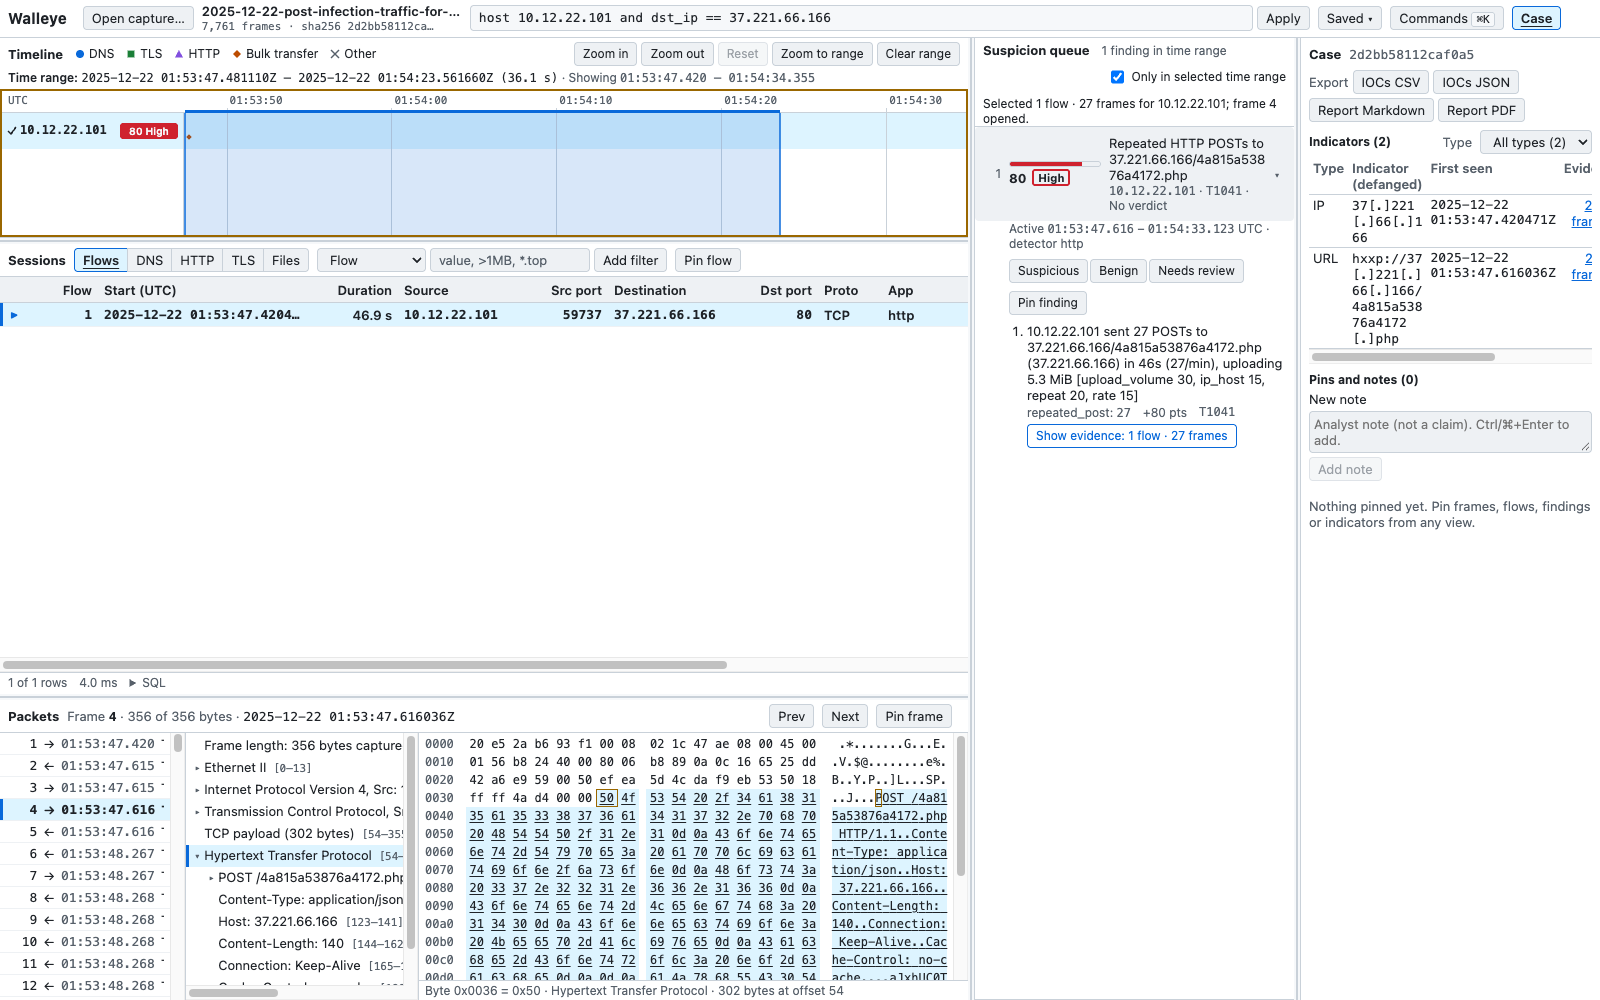
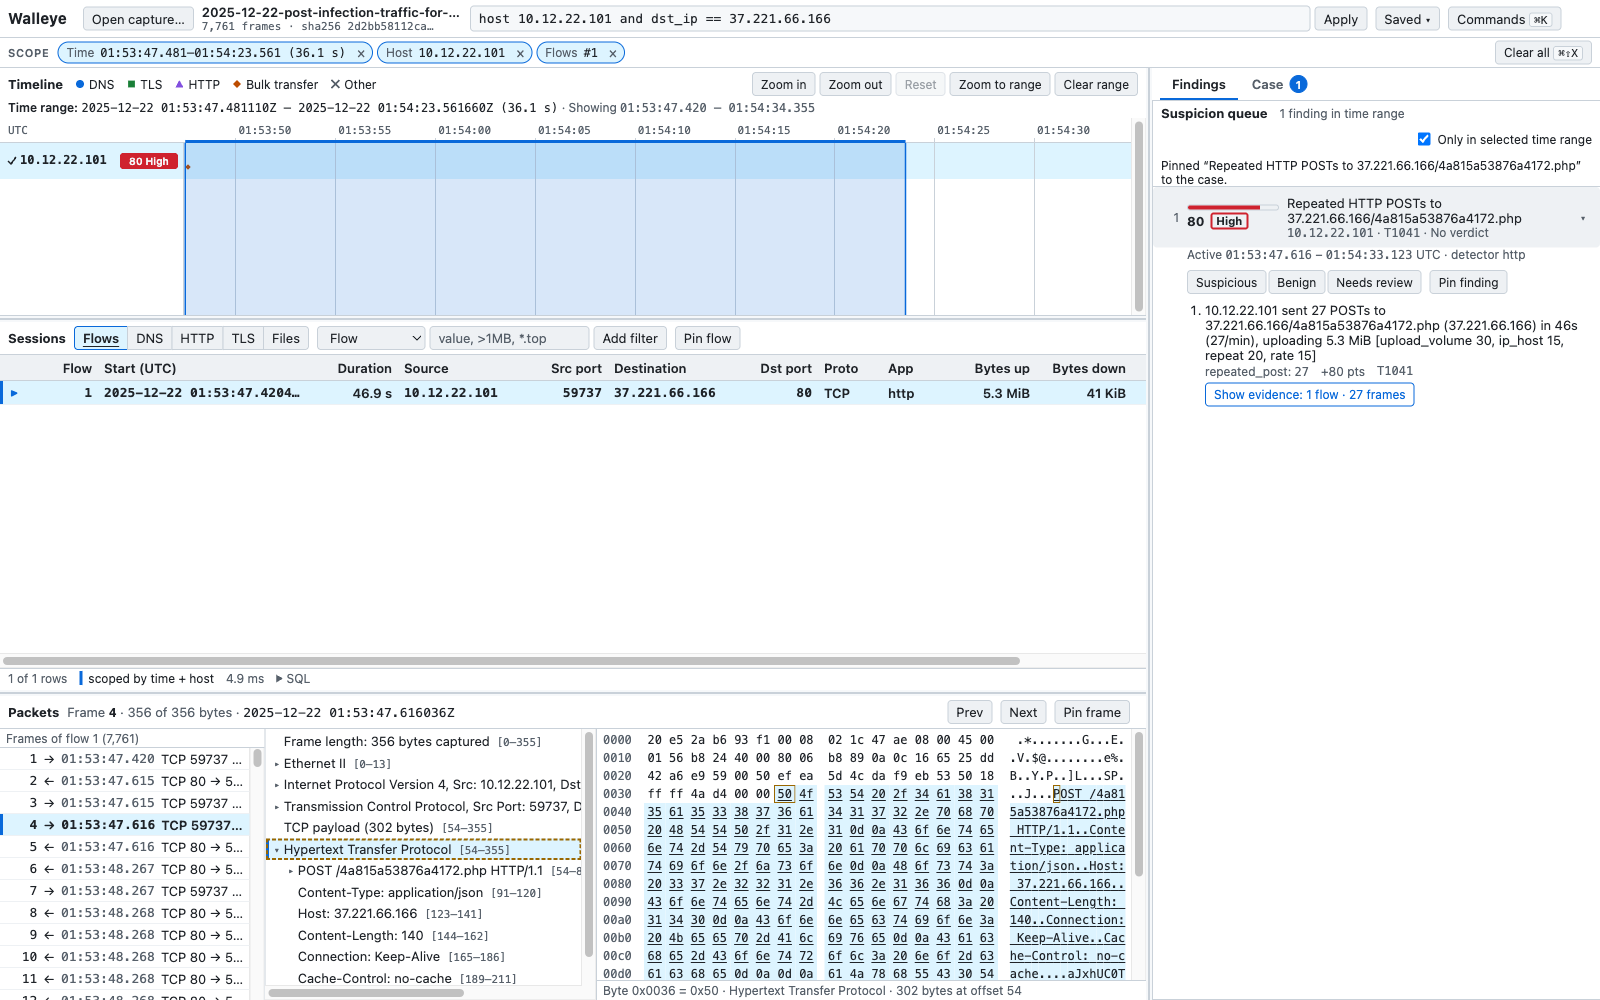
README: describe the scope bar, Findings/Case tabs and pane sizing; new screenshot
Folds the paragraphs added by #5 and #6 into one short layout list, adds
the command palette and g 0, notes the usability round in Status, and
retakes docs/images/triage.png with the new layout on the real StealC
capture (same scene as before).

Changed region(s): [[0.0, 0.0, 1.0, 0.527], [0.0, 0.651, 0.7188, 1.0], [0.8125, 0.992, 1.0, 1.0]]

diff --git a/README.md b/README.md
@@ -8,19 +8,22 @@ Walleye is a desktop app for security analysts that analyzes packet captures (PC
 - **Suspicion queue:** hosts ranked by score. Each entry lists its reasons, their weights and the frames behind them.
 - **Case panel:** verdicts, pins and notes. Exports indicators (CSV/JSON) and a report (Markdown/PDF).
 
-The suspicion queue and the case panel share the right-hand column as two tabs, **Findings** and **Case** (switch with ⌘\ / Ctrl+\, or `g q` / `g c`). The Case tab shows the pin count and highlights it when something is pinned from another tab. On smaller windows the timeline and packet pane give up height first, so the session table always keeps room for several rows.
+How the screen is laid out:
 
-A scope bar under the header shows, as removable chips, everything that is narrowing the views: the time range, selected hosts and flows, and the focused Wi-Fi device. **Clear all** (⌘⇧X / Ctrl+Shift+X) resets them and keeps the filter.
+- **Scope bar:** a row under the header shows everything narrowing the views as chips you can remove: the time range, selected hosts and flows, and the focused Wi-Fi device. **Clear all** (⌘⇧X / Ctrl+Shift+X) removes them all and keeps the filter.
+- **Findings and Case tabs:** the suspicion queue and the case panel share the right-hand column. Switch with ⌘\ / Ctrl+\, or `g q` and `g c`. The Case tab shows how many items are pinned, and the count lights up when you pin something from Findings.
+- **Pane sizes:** panes scale with the window until you drag a divider. The session table always keeps room for several rows. `g 0` resets the sizes.
+- **Keyboard:** ⌘K / Ctrl+K opens the command palette, which lists every action and its shortcut.
 
 Every finding, indicator and report line cites frame numbers and the capture's SHA-256, so any claim can be checked against the raw packets.
 
 **Wi-Fi (802.11) captures** from monitor-mode tools such as the WiFi Coconut, airodump-ng or Kismet (link types 105 and 127) open too. Walleye adds Access points, Clients and Wi-Fi frames tabs, a timeline with one lane per transmitting device, and detections for deauthentication floods, evil twins and karma access points. A deauth flood is judged partly by signal strength: frames that arrive at the same strength as the access point's own beacons most likely came from the real access point. Filter with `wifi.*`, `ap.*` and `client.*` fields or `mac aa:bb:cc:dd:ee:ff`. Unencrypted Wi-Fi traffic (open networks, Apple AWDL) also feeds the normal connection views.
 
-![Walleye triaging a StealC infection: a timeline selection narrows the queue to the C2 finding, and its first check-in is decoded in the packet pane](docs/images/triage.png)
+![Walleye triaging a StealC infection: the scope bar shows a time range, host and flow; the Findings tab holds the C2 finding, already pinned to the case; its first check-in is decoded in the packet pane](docs/images/triage.png)
 
 ## Status
 
-The MVP and Wi-Fi support are both on `main`, and every gate below passes.
+The MVP and Wi-Fi support are both on `main`, and every gate below passes. A round of usability work on the interface is under way: the scope bar ([#5](https://github.com/JWhiteUX/walleye/pull/5)) and the Findings and Case tabs ([#6](https://github.com/JWhiteUX/walleye/pull/6)) are merged. Next are clearer filter-bar states, a welcome screen, faster triage (stepping through a finding's evidence frames) and a tidier case panel.
 
 **MVP gates**
 
